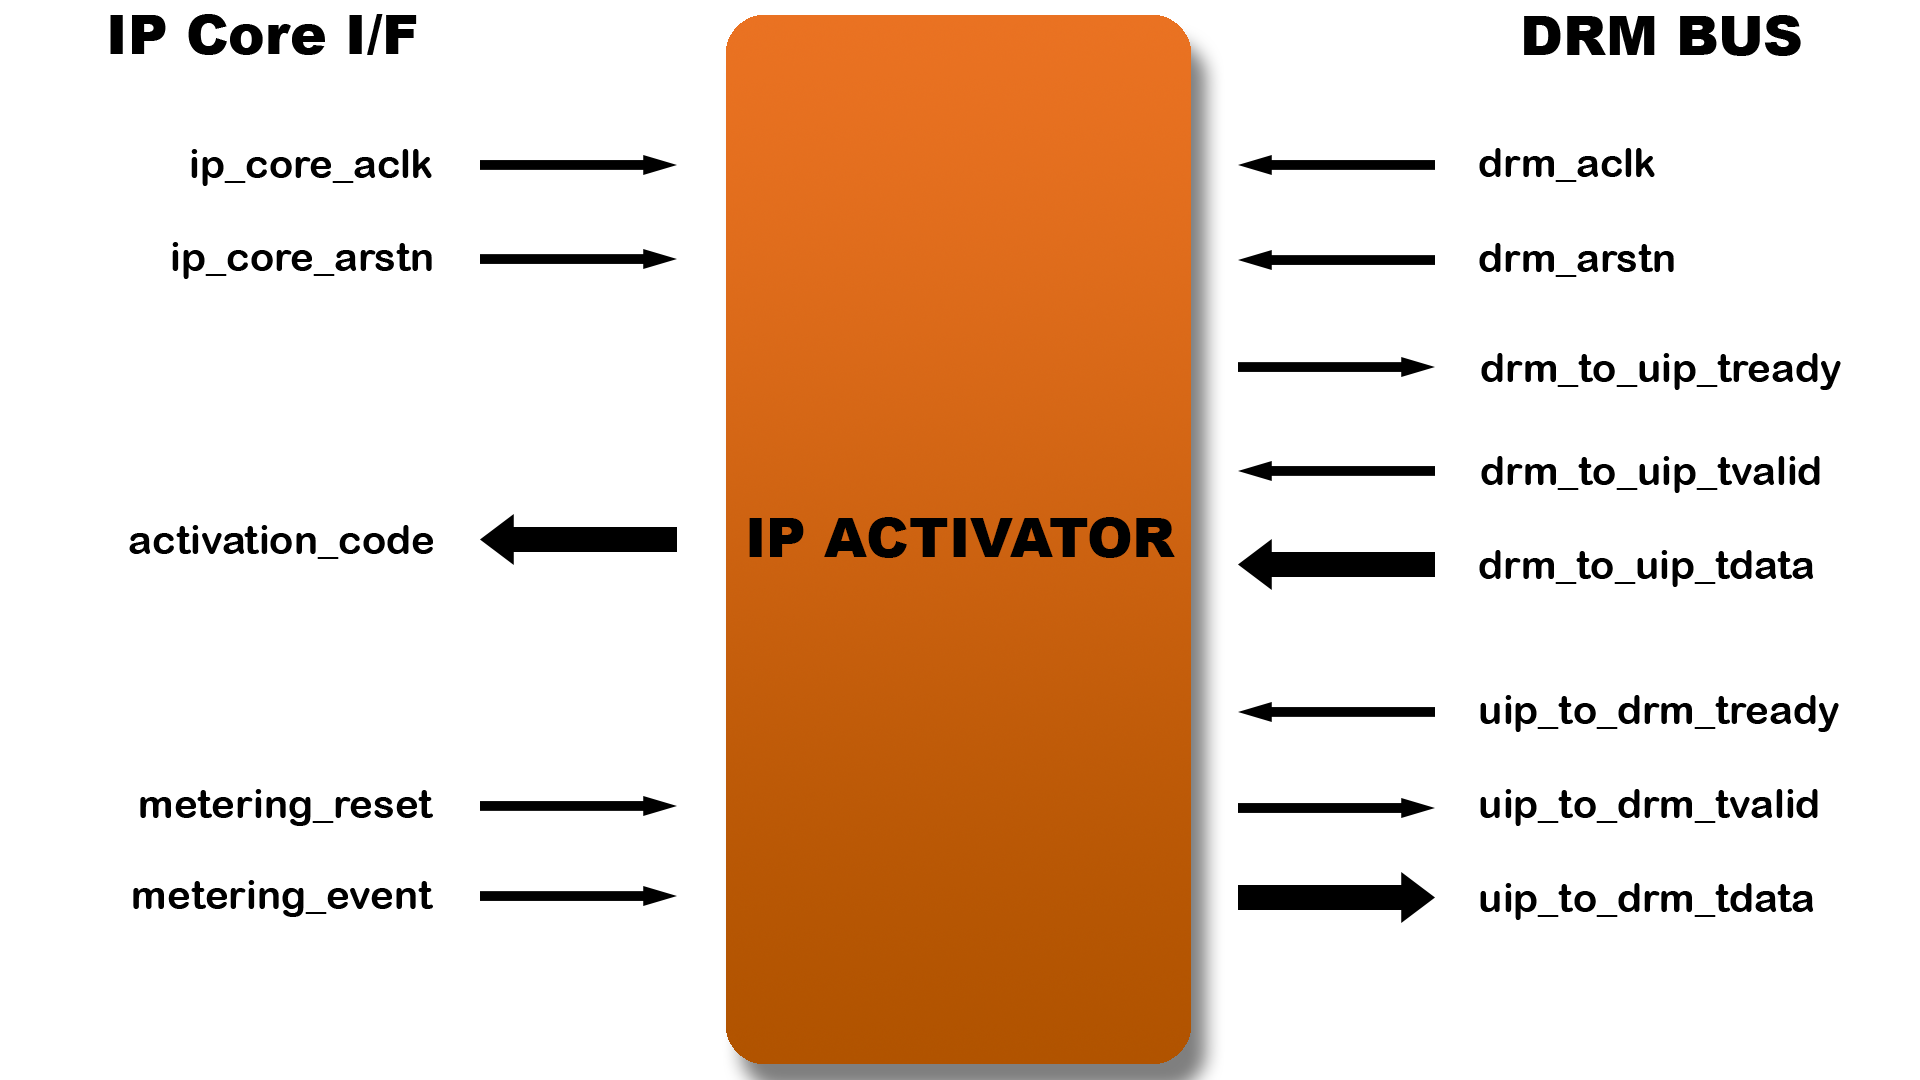
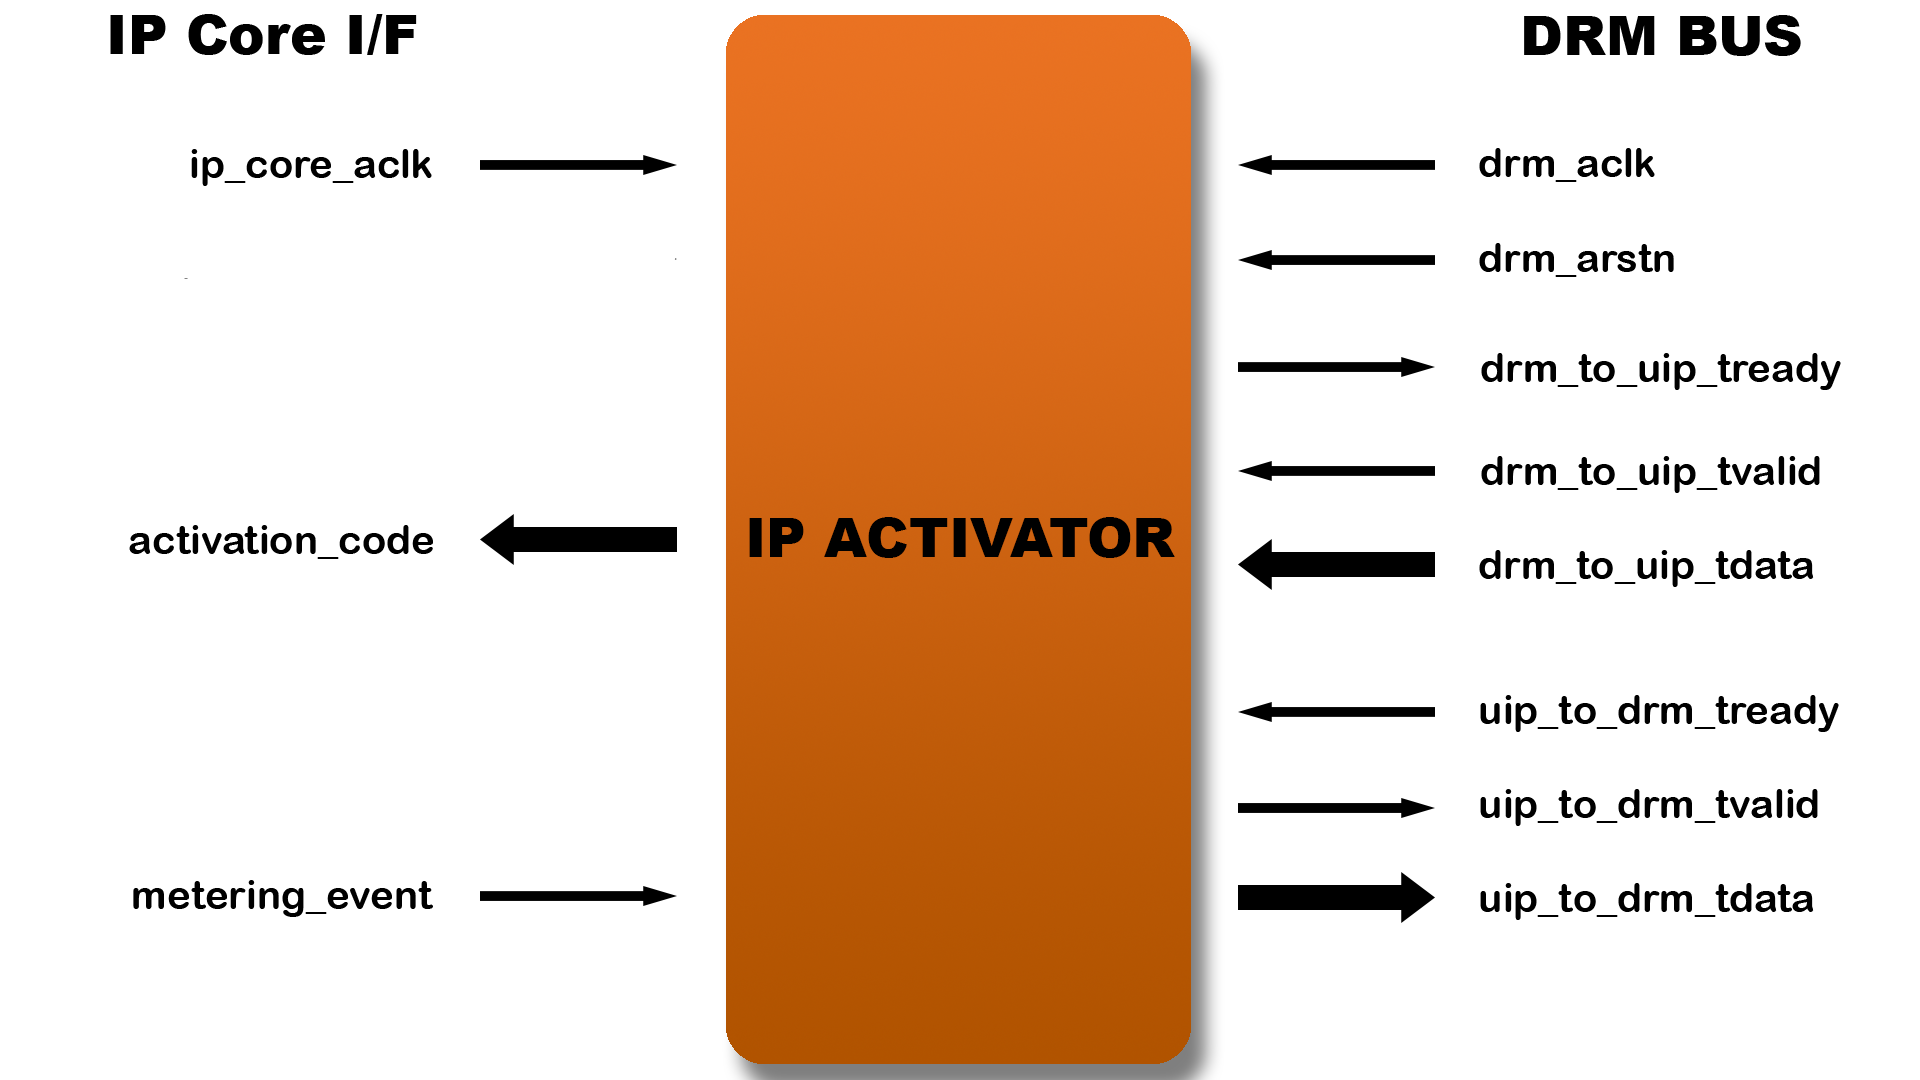
Update documentation to include simulation and SDAccel flow.

diff --git a/doc/drm_hardware_integration.rst b/doc/drm_hardware_integration.rst
@@ -185,10 +185,6 @@ Add the following ports to the original IP core:
        - Direction
        - Size
        - Description
-     * - ip_core_arstn
-       - in
-       - 1
-       - IP Core Asynchronous Reset (active low)
      * - ip_core_aclk
        - in
        - 1
@@ -201,10 +197,6 @@ Add the following ports to the original IP core:
        - in
        - 1
        - A 1 clock cycle pulse (synchronous to ip_core_aclk) increments the Metering data counter
-     * - metering_reset
-       - in
-       - 1
-       - Metering Counter Synchronous (to ip_core_aclk) Reset (active high)
 
 #. Protect relevant code of the IP core
 
@@ -272,12 +264,6 @@ in number of usage units for this particular account.
 .. warning:: The DRM event is synchronized on the ``ip_core_aclk``
              clock. Make sure a clock domain crossing technique is implemented
              when necessary.
-
-.. important:: The ``metering_reset`` signal resets the metering counter.
-             Therefore, it SHALL NOT be connected to a user-controllable
-             reset as it will give the user a way to reset metering information
-             before this information is actually sent to the DRM web service.
-             If it happens, the end-user will not be charged for what he/she consumed.
 
 Instantiate the adapted IP core and DRM Activator in the wrapper and connect them
 ^^^^^^^^^^^^^^^^^^^^^^^^^^^^^^^^^^^^^^^^^^^^^^^^^^^^^^^^^^^^^^^^^^^^^^^^^^^^^^^^^
@@ -353,9 +339,9 @@ In addition to the simulation top-level, you'll find in the `sim` folder the fol
 ModelSim Compilation and Simulation
 -----------------------------------
 
-.. important:: DRM source files (VHDL and Verilog) HAVE to be compiled
-               under "drm_library" library and "drm_0xVVVVLLLLNNNNVVVV_library" library with
-               multiple activators.
+.. important:: DRM VHDL source files HAVE to be compiled under "drm_library" library.
+               When the design instantiates multiple different activators, they must also
+               be compiled in their own library, for example "drm_0xVVVVLLLLNNNNVVVV_library".
 
 Create libraries
 ^^^^^^^^^^^^^^^^
@@ -369,7 +355,7 @@ Two libraries are required :
        vlib drm_library
        vmap drm_library drm_library
 
-  * Library **drm_0xVVVVLLLLNNNNVVVV_library**:
+  * Library **drm_0xVVVVLLLLNNNNVVVV_library** when multiple different activators exist in the design:
 
     .. code-block:: tcl
 
@@ -378,11 +364,6 @@ Two libraries are required :
 
 
 Compile the files in the following order:
-cd $(SIM_DIR) && xvhdl $(XVHDL_OPTIONS) --work drm_0x1003000b00010001_library ${CL_ROOT}/design/drm_hdk/accelize.com_refdesign_ip1_1.0.0/core/drm_ip_activator_0x1003000b00010001.vhdl
-cd $(SIM_DIR) && xvhdl $(XVHDL_OPTIONS) --work drm_0x1003000b00010001_library ${CL_ROOT}/design/drm_hdk/accelize.com_refdesign_ip1_1.0.0/sim/drm_license_package.vhdl
-cd $(SIM_DIR) && xvhdl $(XVHDL_OPTIONS) --work drm_0x1003000b00010001_library ${CL_ROOT}/design/drm_hdk/accelize.com_refdesign_ip1_1.0.0/sim/xilinx_sim/drm_controller_bfm.vhdl
-cd $(SIM_DIR) && xvlog $(XVLOG_OPTIONS) --work xil_defaultlib ${CL_ROOT}/design/drm_hdk/accelize.com_refdesign_ip1_1.0.0/sim/drm_activator_0x1003000b00010001_sim_pkg.sv
-cd $(SIM_DIR) && xvlog $(XVLOG_OPTIONS) --work xil_defaultlib ${CL_ROOT}/design/drm_hdk/accelize.com_refdesign_ip1_1.0.0/sim/drm_activator_0x1003000b00010001_sim.sv
 
 1. Compile drm_all_components.vhdl under *drm_library* library:
 
@@ -413,12 +394,16 @@ cd $(SIM_DIR) && xvlog $(XVLOG_OPTIONS) --work xil_defaultlib ${CL_ROOT}/design/
    .. code-block:: tcl
 
       vcom -93 -explicit -work work drm_hdk/activator_VLNV/sim/drm_activator_0xVVVVLLLLNNNNVVVV_sim_pkg.vhdl
+      or
+      vlog -sv -explicit -work work drm_hdk/activator_VLNV/sim/drm_activator_0xVVVVLLLLNNNNVVVV_sim_pkg.sv
 
-#. Compile drm_ip_activator_0xVVVVLLLLNNNNVVVV_axi4st.vhdl:
+#. Compile drm_activator_0xVVVVLLLLNNNNVVVV top-level:
 
    .. code-block:: tcl
 
-      vcom -93 -explicit -work work drm_hdk/activator_VLNV/sim/drm_activator_0xVVVVLLLLNNNNVVVV.vhdl
+      vcom -93 -explicit -work work drm_hdk/activator_VLNV/sim/drm_activator_0xVVVVLLLLNNNNVVVV_sim.vhdl
+      or:
+      vlog -sv -explicit -work work drm_hdk/activator_VLNV/sim/drm_activator_0xVVVVLLLLNNNNVVVV_sim.sv
 
 Run simulation
 ^^^^^^^^^^^^^^
@@ -427,7 +412,7 @@ Start the simulation :
 
 .. code-block:: tcl
 
-   vsim -L drm_library -L drm_testbench_library -L  -t 1ps
+   vsim -L drm_library -L drm_0xVVVVLLLLNNNNVVVV_library -L work -t 1ps
 
 Run the simulation:
 
@@ -435,9 +420,9 @@ Run the simulation:
 
    run -all
 
-.. important:: Note that the BFM takes approximately 30 us to load the default license file.
-               Make sure your simulation starts after the ``LICENSE_FILE_LOADED`` signal is
-               asserted.
+.. warning:: Note that the BFM takes approximately 30 us to load the license file.
+             Make sure your stimuli signals start after the ``LICENSE_FILE_LOADED`` signal is
+             asserted.
 
 
 Expected Behavior
@@ -459,9 +444,7 @@ cycle start.
 
 Ultimately, the ERROR_CODE shall be set to x"00" after a complete Activation
 cycle following the LICENSE_FILE_LOADED set to '1'. If this does not happen,
-the error codes can help to make decisions.
-
-If OK, then the Protected IP is ready to be implemented on hardware.
+the error codes can help to debug (see error table below).
 
 .. image:: _static/behavior.png
    :target: _static/behavior.png
@@ -469,7 +452,7 @@ If OK, then the Protected IP is ready to be implemented on hardware.
 Signals for Debug
 -----------------
 
-Debug signals are all  synchronized on the ``drm_aclk``.
+Debug signals are all synchronized on the ``drm_aclk``.
 
 * LICENSE_FILE_LOADED
 
@@ -504,14 +487,14 @@ Please communicate this error code when you contact Accelize_ for assistance.
 Synthesize and implement your design
 ====================================
 
-.. important:: DRM source files (VHDL and Verilog) HAVE to be compiled
-               under "drm_library" library and "drm_0xVVVVLLLLNNNNVVVV_library" library with
-               multiple activators.
+.. important:: DRM VHDL source files HAVE to be compiled under "drm_library" library.
+               When the design instantiates multiple different activators, they must also
+               be compiled in their own library, for example "drm_0xVVVVLLLLNNNNVVVV_library".
 
 Xilinx Vivado
 -------------
 
-Refer to `Supported hardware` for more information on supported Vivado versions.
+Refer to `Supported hardware`_ for more information on supported Vivado versions.
 
 For Vivado, GUI or TCL script can be used to synthesize the DRM controller and
 the DRM Activator.
@@ -530,7 +513,7 @@ VHDL
 DRM Contoller
 """""""""""""
 
-The DRM Controller top-level name is **drm_controller_ip_axi4st**.
+The DRM Controller top-level name is **drm_controller**.
 
 To add the DRM Controller source to your project, you can use:
 
@@ -545,14 +528,14 @@ To add the DRM Controller source to your project, you can use:
 
    read_vhdl -library drm_library {
       drm_hdk/common/xilinx/drm_all_components.vhdl
-      drm_hdk/contoller/drm_controller_ip.vhdl
-      drm_hdk/contoller/drm_controller_ip_axi4st.vhdl
+      drm_hdk/contoller/rtl/core/drm_controller_ip.vhdl
+      drm_hdk/contoller/rtl/syn/drm_controller.vhdl
    }
 
 DRM Activator
 """""""""""""
 
-The DRM Activator top-level name is **drm_ip_activator_0xVVVVLLLLNNNNVVVV_axi4st**.
+The DRM Activator top-level name is **drm_activator_0xVVVVLLLLNNNNVVVV**.
 0xVVVVLLLLNNNNVVVV is an hexadecimal string encoding the VLNV of this IP.
 
 To add the DRM Activator source to your project, you can use:
@@ -568,10 +551,14 @@ Or a TCL script:
 
    read_vhdl -library drm_library {
       drm_hdk/common/xilinx/drm_all_components.vhdl
-      drm_hdk/activator_VLNV/rtl/drm_activation_code_package_0xVVVVLLLLNNNNVVVV.vhd
-      drm_hdk/activator_VLNV/rtl/drm_ip_activator_0xVVVVLLLLNNNNVVVV.vhdl
-      drm_hdk/activator_VLNV/rtl/drm_ip_activator_0xVVVVLLLLNNNNVVVV_axi4st.vhdl
    }
+   read_vhdl -library drm_0xVVVVLLLLNNNNVVVV_library {
+      drm_hdk/activator_VLNV/core/drm_activation_code_package_0xVVVVLLLLNNNNVVVV.vhd
+      drm_hdk/activator_VLNV/core/drm_ip_activator_0xVVVVLLLLNNNNVVVV.vhdl
+      drm_hdk/activator_VLNV/syn/drm_activator_0xVVVVLLLLNNNNVVVV.vhdl
+   }
+
+.. note:: In a single activator design all activator source files can be compled under `drm_library`.
 
 Verilog
 ^^^^^^^
@@ -579,7 +566,9 @@ Verilog
 DRM Contoller
 """""""""""""
 
-The DRM Controller top-level name is **drm_controller_ip_axi4st**.
+The DRM Controller top-level name is **drm_controller**.
+
+.. note:: `drm_all_components` and `drm_controller_ip` entities are available in VHDL only.
 
 To add the DRM Controller sources to your project, you can use:
 
@@ -592,19 +581,22 @@ Or a TCL script:
 
 .. code-block:: tcl
 
-   read_verilog {
-      drm_hdk/controller/drm_controller_ip_axi4st.v
-   }
-   read_verilog {
+   read_vhdl -library drm_library {
       drm_hdk/common/xilinx/drm_all_components.vhdl
-      drm_hdk/controller/drm_controller_ip.vhdl
+      drm_hdk/controller/rtl/core/drm_controller_ip.vhdl
    }
+   read_verilog {
+      drm_hdk/controller/rtl/syn/drm_controller.sv
+   }
+
 
 DRM Activator
 """""""""""""
 
 The DRM Activator top-level name is **drm_ip_activator_0xVVVVLLLLNNNNVVVV_axi4st**.
 0xVVVVLLLLNNNNVVVV is an hexadecimal string encoding the VLNV of this IP.
+
+.. note:: `drm_all_components` and `drm_controller_ip` entities are available in VHDL only.
 
 To add the DRM Activator sources to your project, you can use:
 
@@ -617,13 +609,12 @@ Or via TCL script:
 
 .. code-block:: tcl
 
-   read_verilog {
-      drm_hdk/activator_VLNV/rtl/drm_activation_code_package_0xVVVVLLLLNNNNVVVV.v
-      drm_hdk/activator_VLNV/rtl/drm_ip_activator_0xVVVVLLLLNNNNVVVV_axi4st.vhdl
-   }
    read_vhdl -library drm_library {
       drm_hdk/common/xilinx/drm_all_components.vhdl
-      drm_hdk/activator_VLNV/rtl/drm_ip_activator_0xVVVVLLLLNNNNVVVV.vhdl
+      drm_hdk/activator_VLNV/core/drm_ip_activator_0xVVVVLLLLNNNNVVVV.vhdl
+   }
+   read_verilog -include drm_hdk/activator_VLNV/core {
+      drm_hdk/activator_VLNV/syn/drm_activator_0xVVVVLLLLNNNNVVVV.sv
    }
 
 
@@ -645,14 +636,52 @@ While runing synthesis and implementation you may face the following warnings:
   clock pin of 32 registers. This could lead to large hold time violations* :
 
   Like the previous message, this warning occurs because of the TRNGs which is based on ring
-  oscillators (a chain of inverters) that is driving a LFSR clock.
+  oscillators driving a LFSR clock.
   You can safely ignore this message.
 
+
+Xilinx SDAccel/Vitis
+--------------------
+
+Below is an overview of the interaction between Sw and Hw layers when desiging with SDAccel.
+
+.. image:: _static/DRM_Sw_and_Hw_interactions_under_SDAccel.png
+   :target: _static/DRM_Sw_and_Hw_interactions_under_SDAccel.png
+
+In this description, the DRM Controller has its own kernel and the DRM ACtivator is instantiated
+with the User's logic in a separate kernel. But the user may prefer to group all together the
+DRM Controller and Activator into the same SDAccel kernel.
+However,to simply the integration, Accelize provides in the DRM HDK a makefile that generates automatically the .XO package
+for the DRM Controller kernel.
+
+DRM Contoller Kernel
+""""""""""""""""""""
+
+To generate the DRM Controller kernel for SDAccel:
+
+.. code-block:: bash
+    :caption: Generate DRM Controller XO package
+
+    cd drm_hdk/controller/sdaccel
+    make
+
+You can now include the .xo file in your SDAccel project.
+
+DRM ACtivator Kernel
+""""""""""""""""""""
+
+Proceed as in a usual Xilinx Vivado flow: modify your original design to prepare, instantiate and connect
+the DRM Activator IP.
+For more detals refer to `Modify your design`_.
+
+
+Xilinx Vitis
+------------
 
 Intel Quartus Prime
 -------------------
 
-Refer to `Supported hardware` for more information on supported Quartus versions.
+Refer to `Supported hardware`_ for more information on supported Quartus versions.
 
 .. note:: In the ``common`` folder of the DRM HDK, you will find an *altera* and an
           *alteraProprietary* subfolders. Both subfolders contain the same code but
@@ -666,7 +695,7 @@ VHDL
 DRM Contoller
 """""""""""""
 
-The DRM Controller top-level name is **drm_controller_ip_axi4st**.
+The DRM Controller top-level name is **drm_controller**.
 
 To add the DRM Controller source to your project, you can use:
 
@@ -766,6 +795,14 @@ To add the DRM Activator sources to your project, you can use:
 
 .. note:: The ``altchip_id_arria10.sv`` file is for the Arria10 FPGA family.
           Use the file located in the *common/sv/alteraProprietary* folder from your DRM HDK.
+
+
+Constrain your design
+=====================
+
+A CDC mechanism is implemented in the DRM Activator IP to handle different clocks on `drm_aclk` and `ip_core_aclk`.
+The associated CDC constraints shall be defined in your project. Because the sources are encrypted
+you will find in the SDC files in the `syn/contraints` folder of the activator the names of the CDC elements.
 
 
 .. _Accelize: https://www.accelize.com/contact-us

diff --git a/doc/drm_hardware_ip_activator.rst b/doc/drm_hardware_ip_activator.rst
@@ -106,19 +106,10 @@ signals.
      - in
      - 1
      - IP Core clock
-   * - ip_core_arstn
-     - in
-     - 1
-     - IP Core Asynchronous Reset (active low): asynchronous reset of the activation code
-       and the metering counter
    * - metering_event
      - in
      - 1
      - Level-sensitive signal synchronous to ip_core_aclk that increments the Metering counter when sampled to '1'
-   * - metering_reset
-     - in
-     - 1
-     - Active-high reset synchronous to ip_core_aclk that clear the Metering counter when sampled to '1'
    * - activation_code
      - out
      - 128
@@ -139,11 +130,8 @@ The IP Core uses the 128 bits of the Activation Code output to control FSM trans
 and datapath gates.
 
 The DRM Activator implements an internal 64-bit Metering counter that is used
-to store the activity of the IP Core: it is reset:
-
-* asynchronously upon the ``IP_CORE_aRSTn`` input
-* synchronously upon the ``metering_reset`` input
-* synchronously via the DRM Bus protocl when the session is closed.
+to store the activity of the IP Core. It is reset synchronously via the DRM Bus
+protocl when the session is closed.
 
 It is incremented under the control of the IP Core by asserting the ``metering_event`` input
 for 1 clock cycle. ``metering_event`` is a level-sensitive signal so make sure the signal
